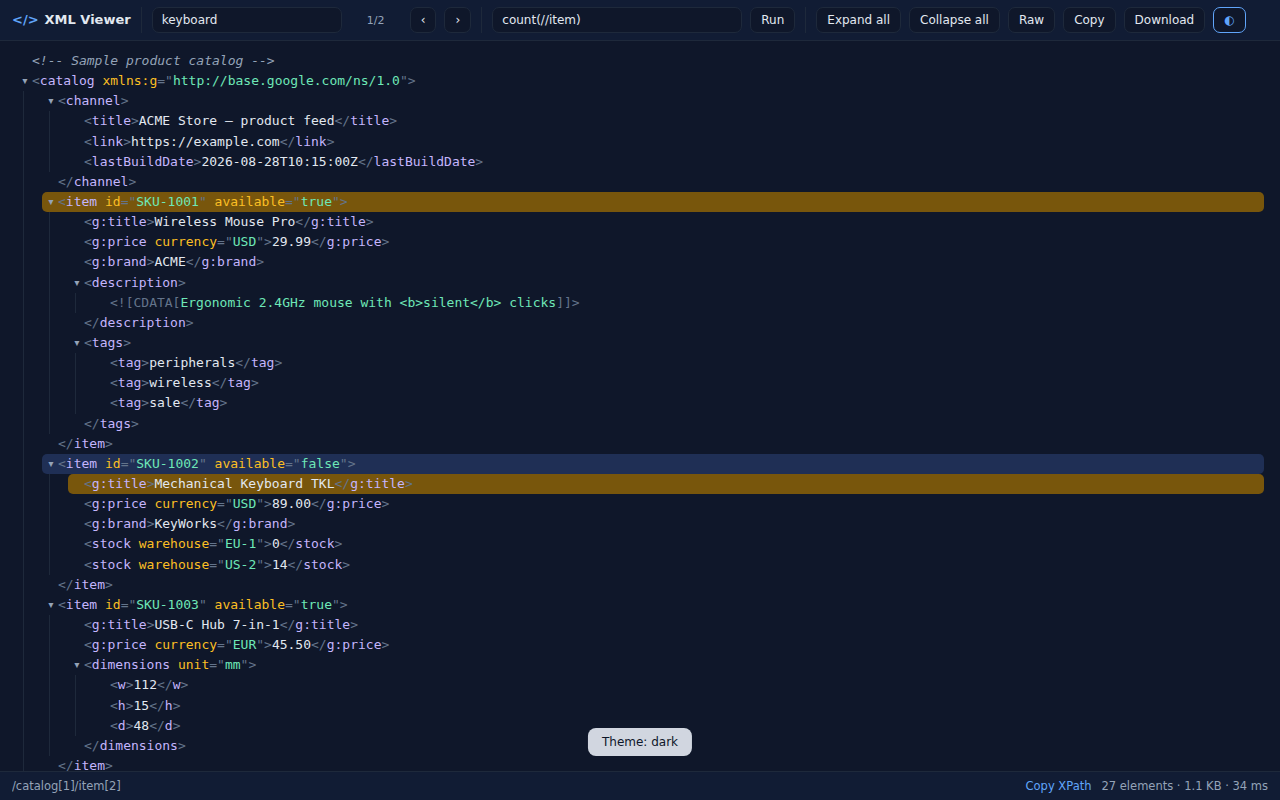
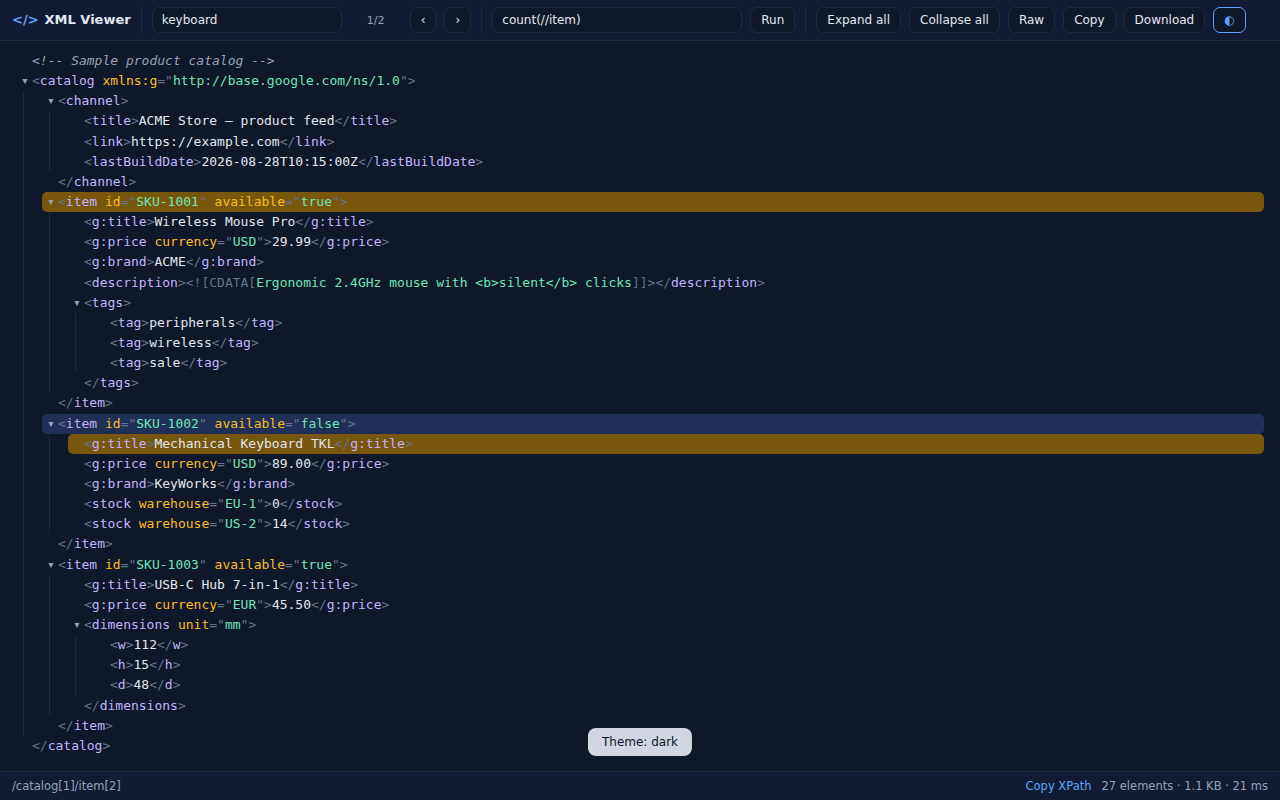
Inline single-CDATA elements; live-site verification

Changed region(s): [[0.0312, 0.3438, 1.0, 0.9688]]

diff --git a/src/tree.js b/src/tree.js
@@ -186,10 +186,13 @@
     let rendered = 0;
 
     function shortValue(node) {
-      // <tag>text</tag> with nothing else -> render on one line
+      // <tag>text</tag> or <tag><![CDATA[..]]></tag> -> render on one line.
+      // RSS/Atom wrap nearly every field in CDATA, so inlining it matters.
       const kids = node.childNodes;
-      if (kids.length === 1 && kids[0].nodeType === 3) return kids[0].nodeValue;
       if (kids.length === 0) return "";
+      if (kids.length === 1 && (kids[0].nodeType === 3 || kids[0].nodeType === 4)) {
+        return { text: kids[0].nodeValue, cdata: kids[0].nodeType === 4 };
+      }
       return null;
     }
 
@@ -265,11 +268,16 @@
       const simple = shortValue(node);
       if (simple !== null) {
         line.appendChild(el(doc, "span", "xv-nocaret"));
-        appendTag(line, node, false, simple === "" && node.childNodes.length === 0);
-        if (simple !== "") {
-          line.appendChild(textSpan(simple.trim()));
-          appendTag(line, node, true);
-        } else if (node.childNodes.length !== 0) {
+        const empty = simple === "";
+        appendTag(line, node, false, empty);
+        if (!empty) {
+          if (simple.cdata) {
+            line.appendChild(el(doc, "span", "xv-punc", "<![CDATA["));
+            line.appendChild(textSpan(simple.text, "xv-cdata"));
+            line.appendChild(el(doc, "span", "xv-punc", "]]>"));
+          } else {
+            line.appendChild(textSpan(simple.text.trim()));
+          }
           appendTag(line, node, true);
         }
         return li;
